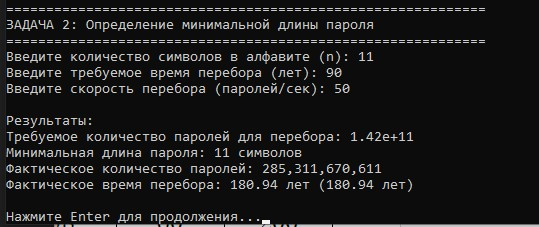
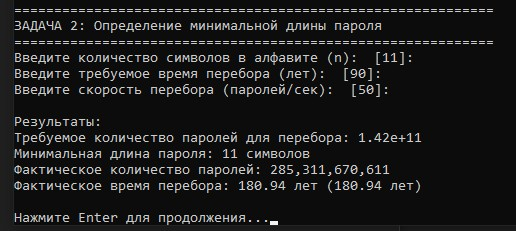
adding default_input

Changed region(s): [[0.0, 0.0308, 0.9612, 0.4317], [0.0, 0.4934, 0.8372, 0.8326], [0.0, 0.9251, 1.0, 1.0]]

diff --git a/main.py b/main.py
@@ -38,7 +38,7 @@ def task1():
     v = float(default_input("Введите длительность паузы (сек): ", "12"))
     
     total_passwords = n ** k
-    print(f"\nОбщее количество возможных паролей: {total_passwords:,}")
+    print(f"\nОбщее количество возможных паролей: {n}^{k} = {total_passwords:,}")
     
     # Время без пауз
     time_without_pause = total_passwords / s
@@ -94,9 +94,9 @@ def task3():
     print("ЗАДАЧА 3: Определение минимальной мощности алфавита")
     print("="*60)
     
-    k = int(input("Введите длину пароля (k): "))
-    t = float(input("Введите требуемое время перебора (лет): "))
-    s = float(input("Введите скорость перебора (паролей/сек): "))
+    k = int(default_input("Введите длину пароля (k): ", "11"))
+    t = float(default_input("Введите требуемое время перебора (лет): ", "90"))
+    s = float(default_input("Введите скорость перебора (паролей/сек): ", "50"))
     
     # Переводим годы в секунды
     total_seconds = t * 365 * 24 * 3600
